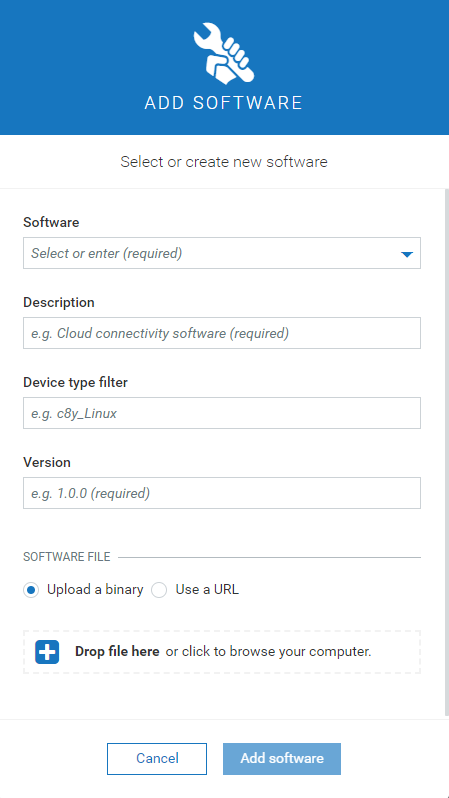
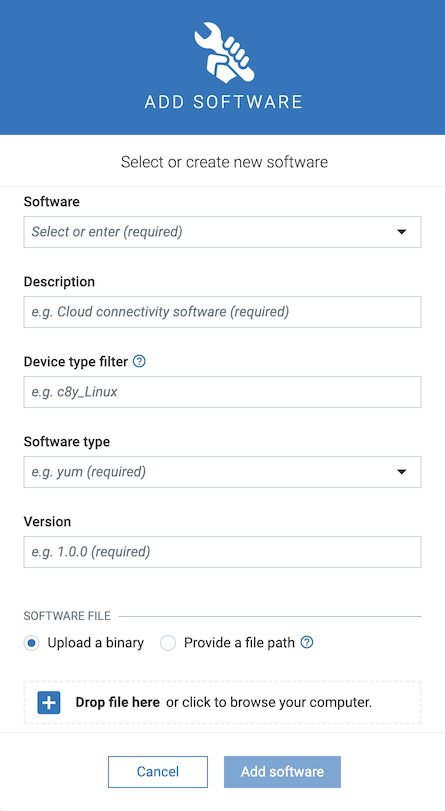
[DM-347] Update Software repository documentation

diff --git a/content/users-guide/device-management-bundle/managing-device-data.md b/content/users-guide/device-management-bundle/managing-device-data.md
@@ -189,14 +189,14 @@ The available software objects will be displayed as a list.
 
 ![Software list](/images/users-guide/DeviceManagement/devmgmt-software-repository.png)
 
-Each entry shows the software name, the device type it is applicable for (if set), and a label indicating if and how many versions are available for a particular software.
-At the left in the top menu bar, you can filter the repository entries by name, description, device type or configuration type. For details on the filtering functionality, see [Getting started > UI functionalities and features > Filtering](/users-guide/getting-started/#filtering).
+Each entry shows the software name, the device type it is applicable for (if set), the software type (if set), and a badge indicating if and how many versions are available for a particular software.
+The values in every column (except **Versions**) can be filtered and sorted by clicking the **Filter** and **Sort** icons in column header.
 
 When clicking on an entry, the details for this software are displayed along with all available versions.
 
 ![Software details](/images/users-guide/DeviceManagement/devmgmt-software-details.png)
 
-At the top, the software name, a description, and optional device type filter(s) are shown. If a filter is set, the software will show up for installation only for devices of that type. If no filter is set, it will be available for all devices.
+At the top, the software name, a description, an optional device type filter(s), and a software type are shown. If a device type filter is set, the software will show up for installation only for devices of that type. If no filter is set, it will be available for all devices. The software type will make the software installable only on devices that have declared to support the particular software type.
 
 The list of versions shows the version name and the name of the software binary.
 The versions are ordered by their creation time (descending).
@@ -208,8 +208,9 @@ The versions are ordered by their creation time (descending).
 	* to add a new software, enter a name for the software (and confirm it by clicking **Create new** in the resulting window), a description, and its version (all required).
 	* to add a new version, select the software for which you want to add a new version from the dropdown list in the **Software** field and enter a version.
 3. Optionally, you can define the device type filter when adding a new software.
-3. Either upload a binary from the file system or specify a URL from where the software can be downloaded.
-4. Click **Save**.
+4. Define the software type, it will make the software installable only on devices that have declared to support the particular software type.
+5. Either upload a binary from the file system or specify a URL from where the software can be downloaded.
+6. Click **Add software**.
 
 ![Add software](/images/users-guide/DeviceManagement/devmgmt-software-add.png)
 
@@ -223,7 +224,7 @@ If you click **Add software** from within the details of a specific software, th
 #### To edit a software
 
 1. Click the menu icon at the right of a specific software entry and in the context menu click **Edit**.
-2. Update the name, description or device type filter by clicking the pencil icon next to it. Make the desired changes and click **Save**.
+2. Update the name, description, device type filter or software type by clicking the pencil icon next to it. Make the desired changes and click **Save**.
 
 The software will be updated accordingly.
 
@@ -249,7 +250,7 @@ In the **Software** tab of a device you can manage the software for the particul
 
 Click **All devices** in the **Devices** menu in the navigator, select the desired device from the device list and open its **Software** tab.
 
-The **Software** tab shows a list of all available software installed on the device. If a given software item has a type, it will be displayed next to its name. You can search for a particular software by its name for filter the list by software type.
+The **Software** tab shows a list of all available software installed on the device. If a given software item has a type, it will be displayed next to its name. You can search for a particular software by its name or filter the list by software type.
 
 ![Software tab](/images/users-guide/DeviceManagement/devmgmt-software-tab.png)
 

diff --git a/content/users-guide/device-management-bundle/monitoring-and-controlling-devices.md b/content/users-guide/device-management-bundle/monitoring-and-controlling-devices.md
@@ -418,7 +418,7 @@ Follow these steps:
       * Select a firmware from the list. The list can be filtered by firmware name. Click **Next**.
       * Expand a version and select a patch. Click **Next**.
   * **Software update**
-      * Expand a software from the list and select a version, then also choose to install/update or remove the software from the dropdown list. The list of available software can be filtered by device type or by software name. Click **Next**. If you selected software for multiple device types, a warning dialogue appears and informs you that some operations may fail due to unsupported software, and ask for confirmation.
+      * Expand a software from the list and select a version, then also choose to install/update or remove the software from the dropdown list. The list of available software can be filtered by device type, by software type or by software name. Click **Next**. If you selected software for multiple device types, a warning dialogue appears and informs you that some operations may fail due to unsupported software, and ask for confirmation.
       * Confirm the selection and click **Next**.
   * **Apply device profile**
       * Select a device profile from the list. The list can be filtered by device type or by profile name. Click **Next**.
